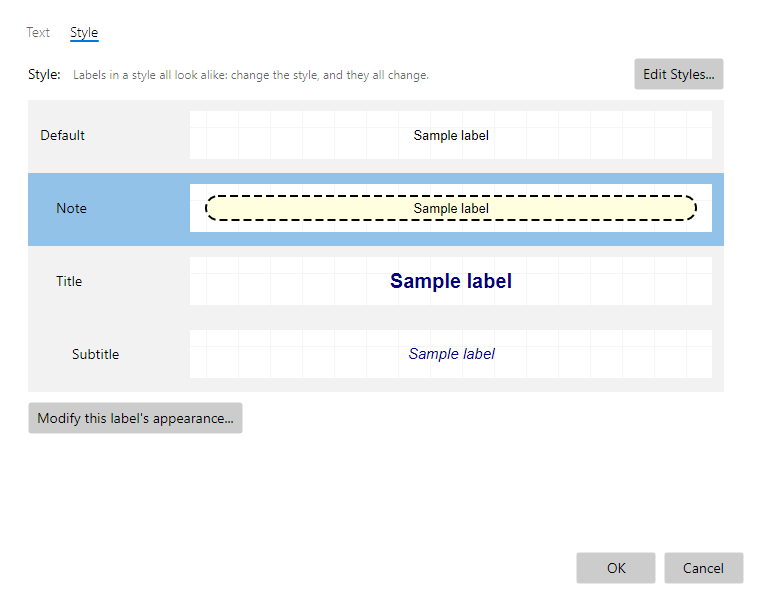
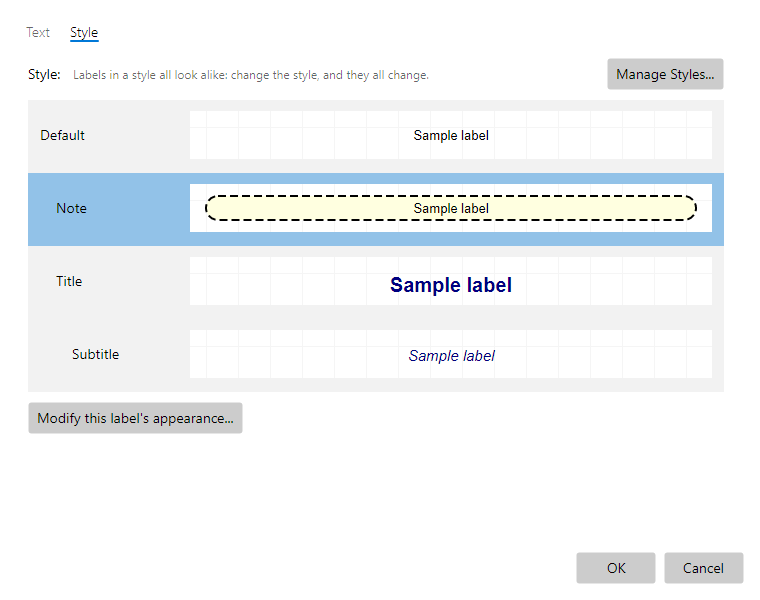
Guide: label pictures redrawn, and one of a customised label
Claude-Session: https://claude.ai/code/session_01M71nqtdkg44mDABgx1QWjM

diff --git a/Docs/labels.md b/Docs/labels.md
@@ -53,6 +53,9 @@ lit button again to go back to that.
 
 If one label really must be different, choose **Modify this label's appearance...**. The list of styles gives way to
 **Based on**, the style it starts from, with a preview of the label as it will look and the settings to change.
+
+![A label changed from its style: Based on, a preview, and its own settings.](images/label-own-look.png)
+
 OK keeps the changes and Cancel throws them away. It's better to make a style, so labels stay alike: **Save as a New
 Style...** opens Manage Styles at a new style with the label's look. Name it and press OK, and the label uses it.
 **Reset to Style** takes the label back to its style and lists the styles again. A label that's been changed this way opens at its own settings.
